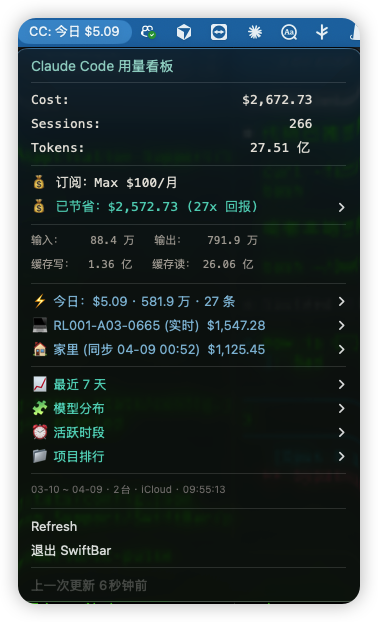
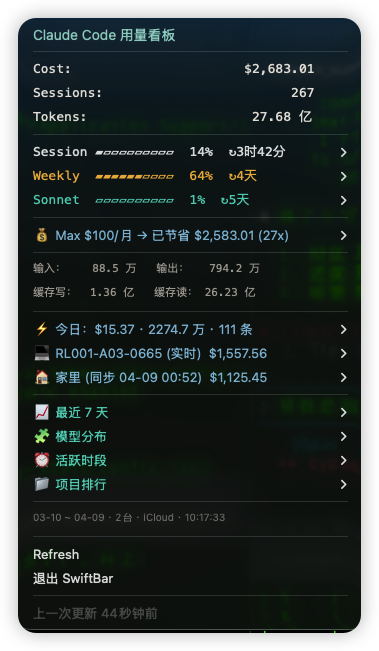
rename to cc-token-status, update screenshot and README
- Repo renamed from cc-pulse to cc-token-status
- Updated screenshot with latest UI (plan limits, aligned gauges)
- README: added plan usage limits section, updated all URLs

diff --git a/cc-token-stats.5m.py b/cc-token-stats.5m.py
@@ -6,8 +6,8 @@
 # <swiftbar.hideSwiftBar>true</swiftbar.hideSwiftBar>
 
 """
-cc-pulse — Claude Code usage dashboard in your menu bar.
-https://github.com/echowonderfulworld/cc-pulse
+cc-token-status — Claude Code usage dashboard in your menu bar.
+https://github.com/echowonderfulworld/cc-token-status
 """
 
 import json, os, glob, socket, subprocess

diff --git a/README.md b/README.md
@@ -1,21 +1,22 @@
-# cc-pulse
+# cc-token-status
 
 **Claude Code usage dashboard in your macOS menu bar.**
 
-One click to see costs, tokens, trends, model breakdown, and multi-machine sync — all in SwiftBar nested menus. No app to install, no server to run, just a single Python script.
+One click to see costs, tokens, plan limits, trends, and multi-machine sync — all in SwiftBar nested menus. No app to install, no server to run, just a single Python script.
 
 <p align="center">
-  <img src=".github/screenshot.png" width="360" alt="cc-pulse screenshot" />
+  <img src=".github/screenshot.png" width="360" alt="cc-token-status screenshot" />
 </p>
 
 ## Features
 
 | Feature | Description |
 |---------|-------------|
-| **Cost & Token Overview** | API-equivalent cost, session count, total tokens — right in the menu bar |
-| **Subscription ROI** | See how much your Pro/Max/Team plan saves vs API pricing |
+| **Cost & Token Overview** | API-equivalent cost, session count, total tokens — always visible |
+| **Plan Usage Limits** | Official 5h session & 7d weekly quotas with live progress bars |
+| **Subscription ROI** | How much your Pro/Max/Team plan saves vs API pricing |
 | **Today at a Glance** | Today's spending, tokens, and message count |
-| **7-Day Trend** | Daily cost bar chart with drill-down |
+| **7-Day Trend** | Daily cost bar chart with drill-down details |
 | **Model Breakdown** | Per-model usage (Opus / Sonnet / Haiku) with percentages |
 | **Hourly Heatmap** | When are you most active? Morning, afternoon, evening, night |
 | **Project Ranking** | Which projects consume the most tokens |
@@ -25,7 +26,7 @@ One click to see costs, tokens, trends, model breakdown, and multi-machine sync 
 ## Quick Install
 
 ```bash
-curl -fsSL https://raw.githubusercontent.com/echowonderfulworld/cc-pulse/main/install.sh | bash
+curl -fsSL https://raw.githubusercontent.com/echowonderfulworld/cc-token-status/main/install.sh | bash
 ```
 
 The installer will:
@@ -35,9 +36,22 @@ The installer will:
 4. Ask your subscription tier (for ROI calculation)
 5. Enable iCloud sync if available
 
+## Plan Usage Limits
+
+cc-token-status reads your Claude Code OAuth token from the macOS Keychain and queries the official Anthropic API to show real-time plan usage:
+
+```
+Session ▰▰▱▱▱▱▱▱▱▱  14%  ↻3h42m
+Weekly  ▰▰▰▰▰▰▱▱▱▱  64%  ↻4d
+Sonnet  ▱▱▱▱▱▱▱▱▱▱   1%  ↻5d
+```
+
+- Color-coded: 🟢 <50% · 🟡 50–80% · 🔴 >80%
+- Cached locally (4 min TTL) to respect API rate limits
+
 ## Pricing
 
-cc-pulse calculates API-equivalent costs using official Anthropic pricing:
+cc-token-status calculates API-equivalent costs using official Anthropic pricing:
 
 | Model | Input | Output | Cache Write | Cache Read |
 |-------|-------|--------|-------------|------------|
@@ -74,9 +88,9 @@ Edit `~/.config/cc-token-stats/config.json`:
 
 ## Multi-Machine Sync
 
-If you use Claude Code on multiple Macs with iCloud Drive, cc-pulse automatically syncs usage data across machines — no setup required.
+If you use Claude Code on multiple Macs with iCloud Drive, cc-token-status automatically syncs usage data across machines — no setup required.
 
-Each machine writes its stats to `~/Library/Mobile Documents/com~apple~CloudDocs/cc-token-stats/machines/<hostname>/`. The plugin reads all machines and shows a combined view with per-machine breakdown.
+Each machine writes its stats to iCloud. The plugin reads all machines and shows a combined view with per-machine breakdown.
 
 ## Requirements
 
